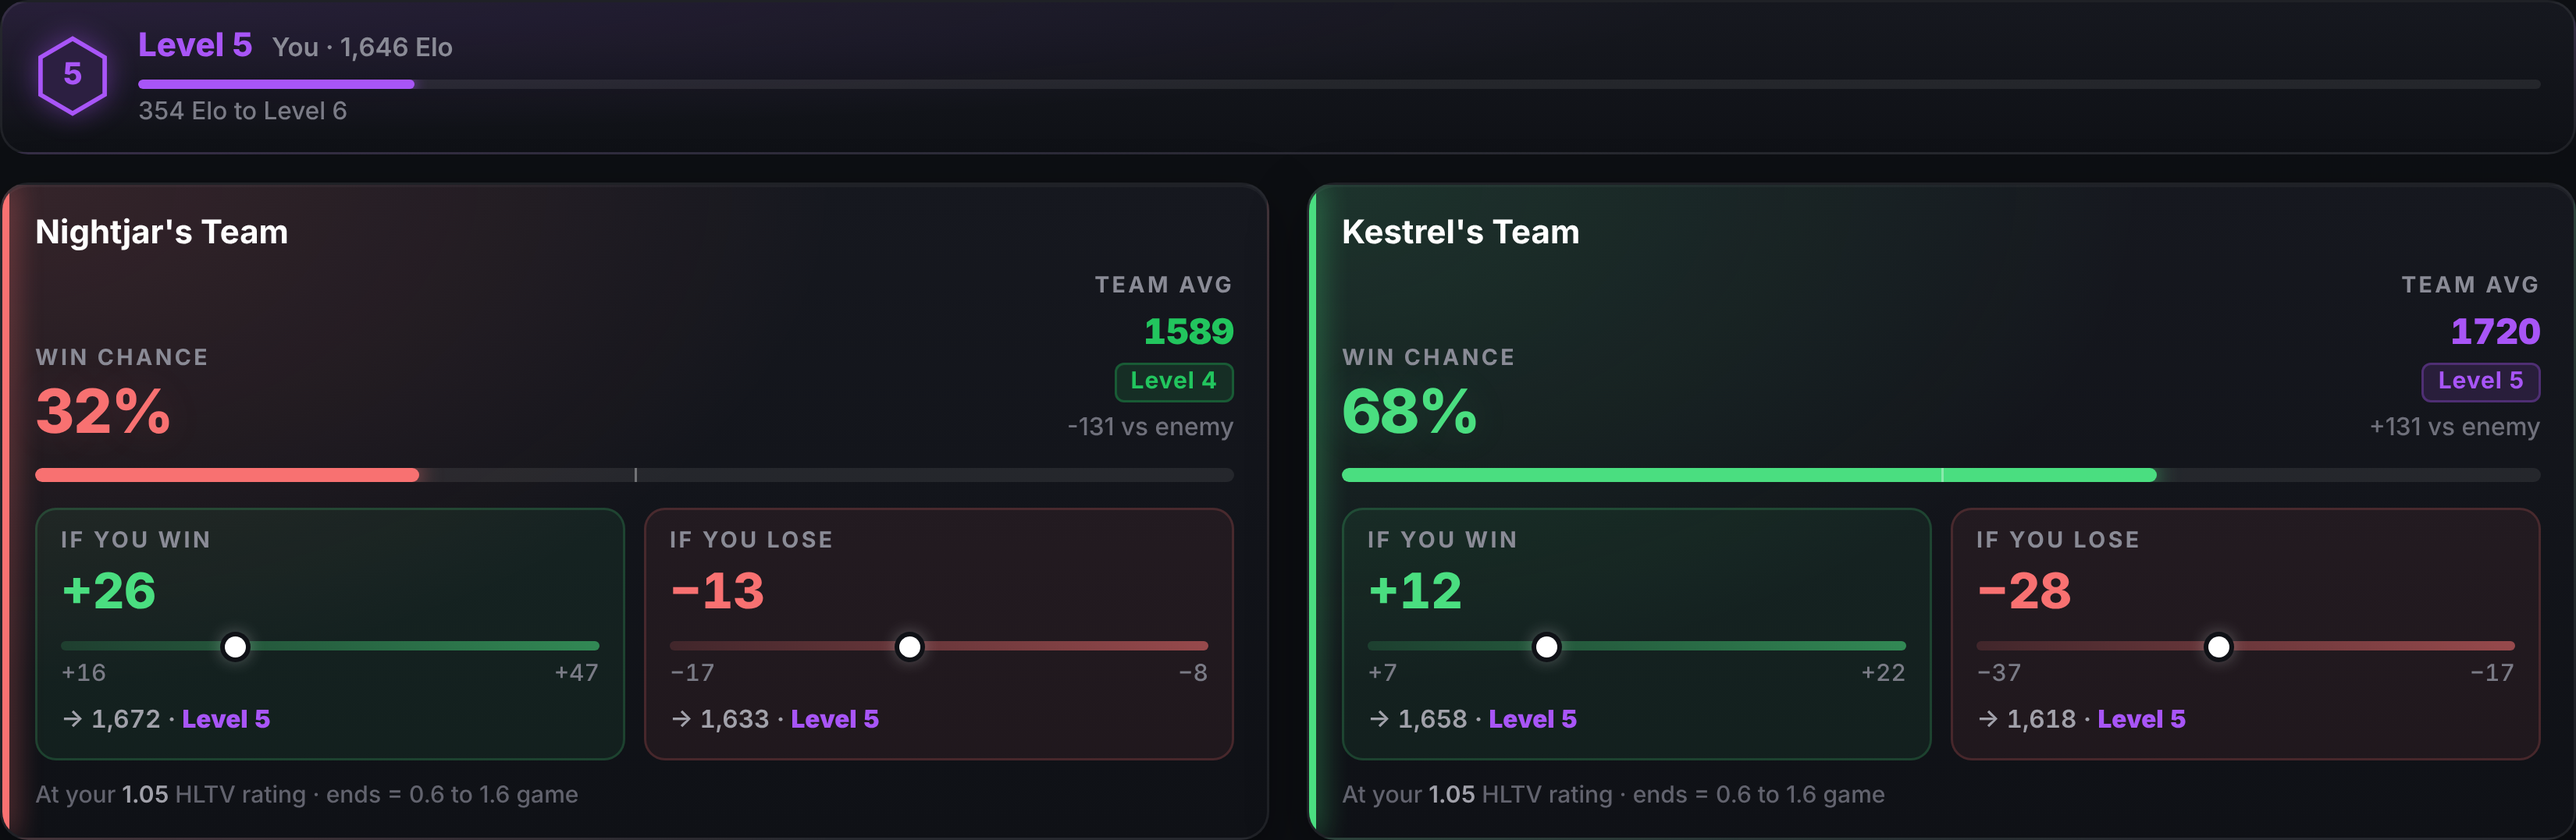
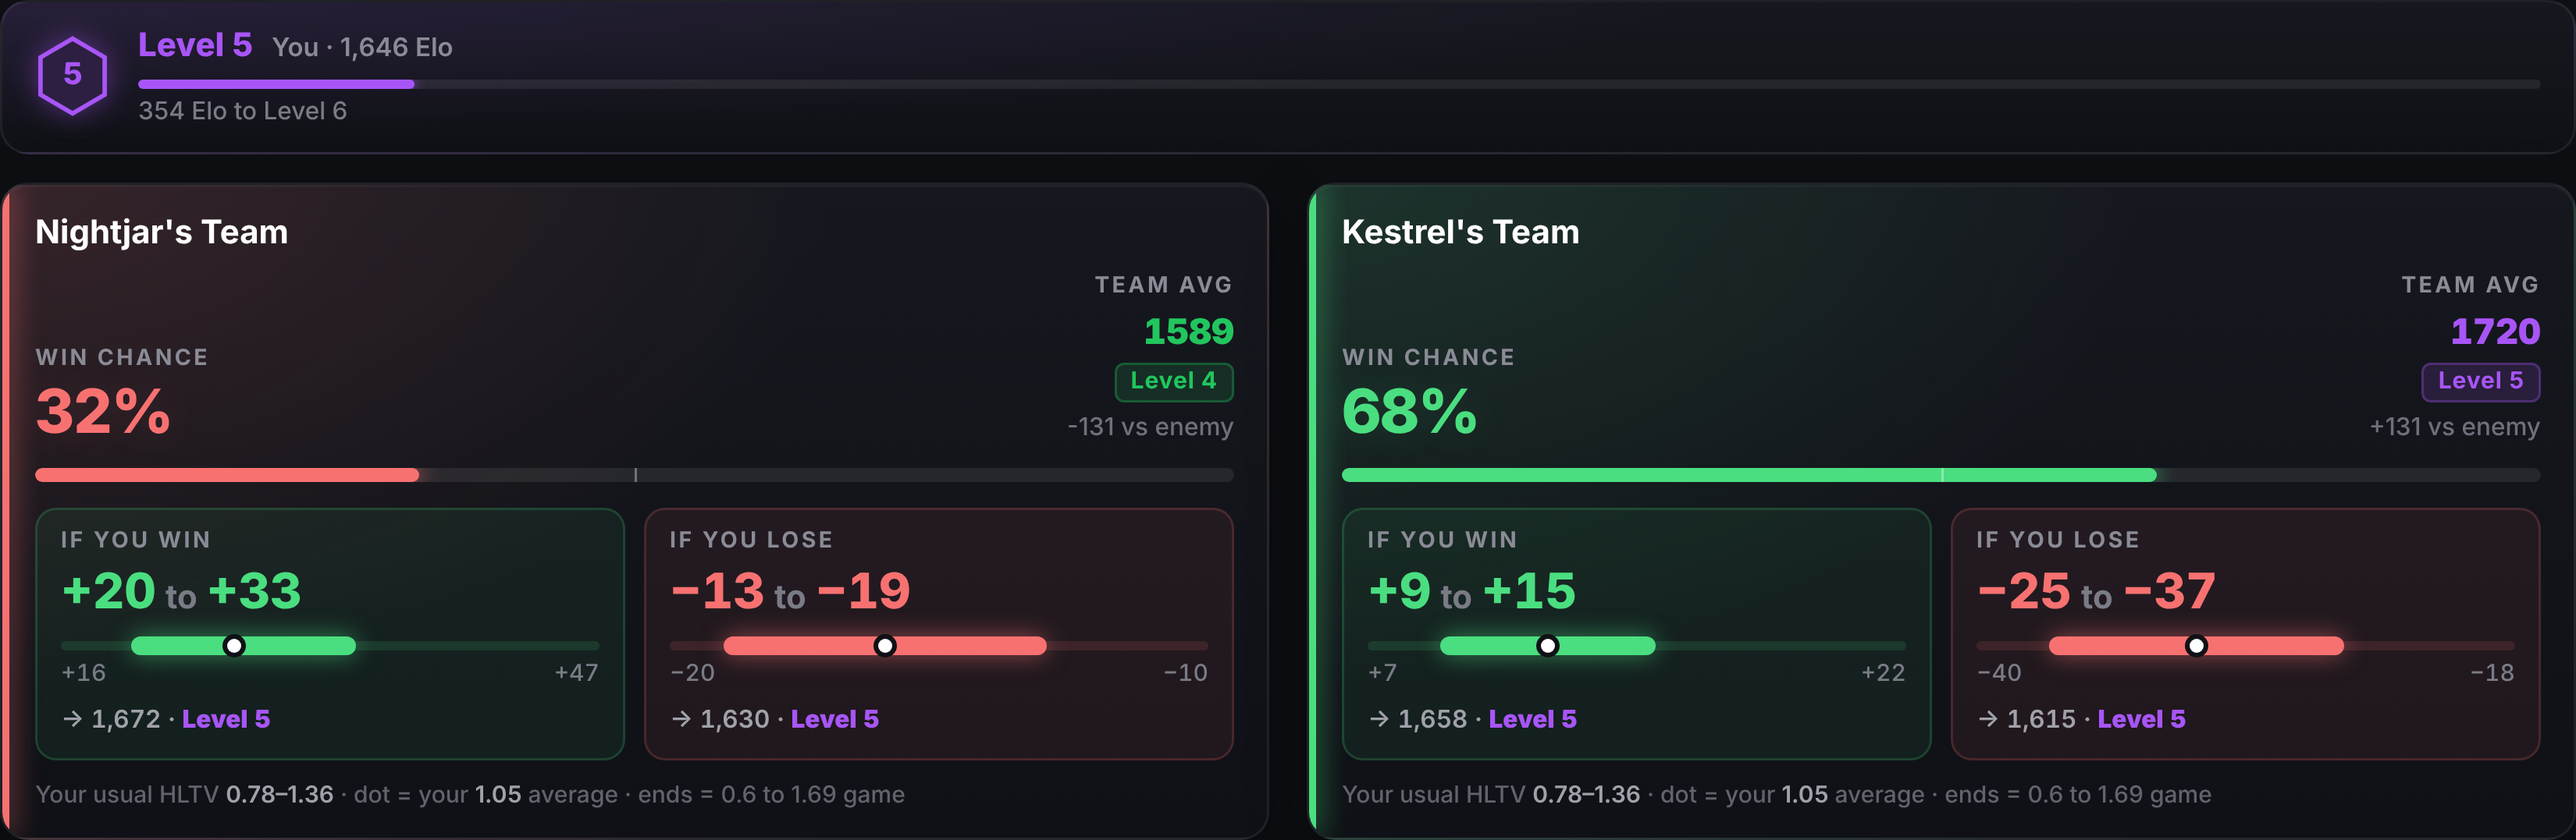
Show your usual HLTV range on match cards, dot at your average (v1.6.3) (#15)
Claude-Session: https://claude.ai/code/session_01CYZSFdDRW3WgFHPS6CJLv3

diff --git a/content.js b/content.js
@@ -3,7 +3,7 @@
   const BOX = "data-kee-box";
   const RANGE = { bad: 0.6, great: 1.69 };
 
-  let settings = { on: true, rating: 1.0, ratingAuto: false, myElo: null };
+  let settings = { on: true, rating: 1.0, ratingAuto: false, myElo: null, ratingLow: null, ratingHigh: null };
   let lastKey = "";
 
 
@@ -228,6 +228,12 @@
     .l .meter { background: linear-gradient(90deg, rgba(248,113,113,.15), rgba(248,113,113,.55)); }
     .meter b { position: absolute; top: 50%; width: 9px; height: 9px; margin: -4.5px 0 0 -4.5px;
       border-radius: 50%; background: #fff; box-shadow: 0 0 0 2px #0f1116, 0 0 8px rgba(255,255,255,.6); }
+    .w .meter.rng { background: rgba(74,222,128,.13); } .l .meter.rng { background: rgba(248,113,113,.13); }
+    .meter i { position: absolute; top: -2px; bottom: -2px; border-radius: 4px; }
+    .w .meter i { background: #4ade80; box-shadow: 0 0 10px rgba(74,222,128,.55); }
+    .l .meter i { background: #f87171; box-shadow: 0 0 10px rgba(248,113,113,.55); }
+    .meter.rng b { width: 6px; height: 6px; margin: -3px 0 0 -3px; box-shadow: 0 0 0 2px #0f1116; }
+    .big .to { font-size: 14px; font-weight: 700; color: #7a7b86; margin: 0 4px; }
     .ends { display: flex; justify-content: space-between; font-size: 10px; font-weight: 500; color: #7a7b86;
       font-variant-numeric: tabular-nums; }
     .foot { margin-top: 9px; font-size: 10px; font-weight: 500; color: #62636e; }
@@ -288,12 +294,28 @@
     return box;
   }
 
-  function tile(kind, label, sign, at, worst, best) {
+  // A win or loss tile. With your usual rating range known, the big number is the range of
+  // Elo from your usual bad game to your usual good game, the meter highlights that band and
+  // a small dot marks your average. Without it, one number and a dot at your average.
+  function tile(kind, label, sign, at, worst, best, usual) {
     const t = h("div", `tile ${kind}`);
-    t.append(h("div", "lbl", label), h("div", "big", `${sign}${at}`));
+    const big = h("div", "big");
     const m = h("div", "meter");
+    if (usual) {
+      const [a, b] = [usual.lo, usual.hi].sort((x, y) => x - y);
+      if (a === b) big.textContent = `${sign}${a}`;
+      else big.append(`${sign}${a}`, h("span", "to", "to"), `${sign}${b}`);
+      m.classList.add("rng");
+      const band = h("i");
+      const p1 = pos(usual.lo, worst, best), p2 = pos(usual.hi, worst, best);
+      band.style.left = `${Math.min(p1, p2)}%`;
+      band.style.width = `${Math.max(Math.abs(p2 - p1), 2)}%`;
+      m.append(band);
+    } else big.textContent = `${sign}${at}`;
+    t.append(h("div", "lbl", label), big);
     const dot = h("b");
     dot.style.left = `${pos(at, worst, best)}%`;
+    dot.title = `At your average: ${sign}${at}`;
     m.append(dot);
     const ends = h("div", "ends");
     ends.append(h("span", "", `${sign}${worst}`), h("span", "", `${sign}${best}`));
@@ -307,6 +329,9 @@
     const now = M.estimate(ownAvg, enemyAvg, r);
     const bad = M.estimate(ownAvg, enemyAvg, RANGE.bad);
     const great = M.estimate(ownAvg, enemyAvg, RANGE.great);
+    const range = usualRange();
+    const lo = range && M.estimate(ownAvg, enemyAvg, range[0]);
+    const hi = range && M.estimate(ownAvg, enemyAvg, range[1]);
     const pct = Math.round(now.chance * 100);
     if (pct < 50) card.classList.add("bad");
 
@@ -336,14 +361,16 @@
 
     const tiles = h("div", "tiles");
     // Win: a bad game gains least, a great game most. Loss: a great game loses least.
-    const tw = tile("w", "If you win", "+", now.win, bad.win, great.win);
-    const tl = tile("l", "If you lose", "−", now.loss, bad.loss, great.loss);
+    const tw = tile("w", "If you win", "+", now.win, bad.win, great.win, range && { lo: lo.win, hi: hi.win });
+    const tl = tile("l", "If you lose", "−", now.loss, bad.loss, great.loss, range && { lo: lo.loss, hi: hi.loss });
     const me = myElo();
     if (me !== null && !finished) { tw.append(proj(me, now.win)); tl.append(proj(me, -now.loss)); }
     tiles.append(tw, tl);
 
     const foot = h("div", "foot");
-    foot.append("At your ", h("b", "", r.toFixed(2)), " HLTV rating · ends = 0.6 to 1.69 game");
+    if (range) foot.append("Your usual HLTV ", h("b", "", `${range[0].toFixed(2)}–${range[1].toFixed(2)}`),
+      " · dot = your ", h("b", "", r.toFixed(2)), " average · ends = 0.6 to 1.69 game");
+    else foot.append("At your ", h("b", "", r.toFixed(2)), " HLTV rating · ends = 0.6 to 1.69 game");
     card.append(h("div", "team", team.name), head, split, tiles, foot);
     if (approx) card.append(h("div", "note", "Match finished: approximate, using players' current Elo. Open the Scoreboard once, then come back here for the exact pre-match numbers."));
     else if (finished) card.append(h("div", "note", "Match finished: using each player's Elo from before the match."));
@@ -370,6 +397,7 @@
     const old = document.querySelectorAll(`[${BOX}]`);
     rememberMyElo();
     rememberMyRating();
+    rememberMyRange();
     if (!settings.on) { old.forEach((b) => b.remove()); lastKey = ""; return; }
     rememberScoreboard();
     const { teams, finished } = readTeams();
@@ -381,7 +409,7 @@
     const exact = !!pre;
     const avg = pre || teams.map(shownAvg);
     const approx = finished && !exact;
-    const key = `${avg}|${finished}|${approx}|${settings.rating}|${settings.myElo}`;
+    const key = `${avg}|${finished}|${approx}|${settings.rating}|${settings.myElo}|${settings.ratingLow}|${settings.ratingHigh}`;
     if (!force && key === lastKey && old.length === 1 && old[0].isConnected) return;
     old.forEach((b) => b.remove());
     drawPanel(teams, avg, finished, approx);
@@ -462,6 +490,42 @@
     chrome.storage.local.set({ ratingSeen: now });
   }
 
+  // Your usual HLTV range: the 10th to 90th percentile of your last 30 games, so one freak game
+  // either way doesn't stretch it. Read from Karasu's public stats API (the same query its profile
+  // page runs) when you open your own profile, at most every 5 minutes.
+  const API = "https://api.karasu.live/v1/graphql";
+  const RANGE_QUERY = `query ($s: bigint!) { v_player_match_map_hltv(where: { steam_id: { _eq: $s } },
+    order_by: { match: { started_at: desc_nulls_last } }, limit: 30) { hltv_rating } }`;
+  let rangeFetchedAt = 0;
+  const pctl = (sorted, p) => {
+    const i = (sorted.length - 1) * p, a = Math.floor(i), b = Math.ceil(i);
+    return sorted[a] + (sorted[b] - sorted[a]) * (i - a);
+  };
+  const r2 = (x) => Math.round(Math.min(2.5, Math.max(0.3, x)) * 100) / 100;
+  async function rememberMyRange() {
+    const id = location.pathname.match(/^\/players\/(\d+)/)?.[1];
+    if (!id || Date.now() - rangeFetchedAt < 5 * 60000 || !onMyProfile()) return;
+    rangeFetchedAt = Date.now();
+    try {
+      const res = await fetch(API, { method: "POST", headers: { "content-type": "application/json" },
+        body: JSON.stringify({ query: RANGE_QUERY, variables: { s: id } }) });
+      const rows = (await res.json())?.data?.v_player_match_map_hltv || [];
+      const xs = rows.map((r) => Number(r.hltv_rating)).filter(Number.isFinite).sort((a, b) => a - b);
+      if (xs.length < 5) return;
+      const low = r2(pctl(xs, 0.1)), high = r2(pctl(xs, 0.9));
+      if (low === settings.ratingLow && high === settings.ratingHigh) return;
+      settings.ratingLow = low; settings.ratingHigh = high;
+      chrome.storage.sync.set({ ratingLow: low, ratingHigh: high });
+    } catch { /* offline or Karasu changed its API: keep the last range */ }
+  }
+
+  // [low, high] if known; the average is kept inside it.
+  function usualRange() {
+    const lo = Number(settings.ratingLow), hi = Number(settings.ratingHigh), r = settings.rating;
+    if (!settings.ratingAuto || !(lo > 0) || !(hi > 0) || hi < lo) return null;
+    return [Math.min(lo, r), Math.max(hi, r)];
+  }
+
   // Karasu is a single-page app: re-check when the page changes, at most ~4 times a second.
   let pending = false;
   new MutationObserver((records) => {
@@ -472,7 +536,7 @@
   }).observe(document.body, { childList: true, subtree: true, characterData: true });
 
   chrome.storage.local.get({ [SB_KEY]: {} }, (v) => { saved = v[SB_KEY] || {}; refresh(true); });
-  chrome.storage.sync.get({ on: true, rating: 1.0, ratingAuto: false, myElo: null }, (v) => { settings = v; refresh(true); });
+  chrome.storage.sync.get({ on: true, rating: 1.0, ratingAuto: false, myElo: null, ratingLow: null, ratingHigh: null }, (v) => { settings = v; refresh(true); });
   chrome.storage.onChanged.addListener((c, area) => {
     if (area !== "sync") return;
     for (const k of Object.keys(c)) settings[k] = c[k].newValue;

diff --git a/store/render-cards.js b/store/render-cards.js
@@ -7,7 +7,7 @@ const path = require("path");
   const browser = await chromium.launch();
   const page = await browser.newPage({ viewport: { width: 1140, height: 700 }, deviceScaleFactor: 3 });
   await page.addInitScript(() => {
-    const sync = { on: true, rating: 1.05, ratingAuto: true, myElo: 1646 };
+    const sync = { on: true, rating: 1.05, ratingAuto: true, myElo: 1646, ratingLow: 0.78, ratingHigh: 1.36 };
     const area = (data) => ({ get: (d, cb) => cb({ ...d, ...Object.fromEntries(Object.keys(d).filter((k) => k in data).map((k) => [k, data[k]])) }), set: () => {} });
     window.chrome = { storage: { sync: area(sync), local: area({}), onChanged: { addListener() {} } } };
   });
